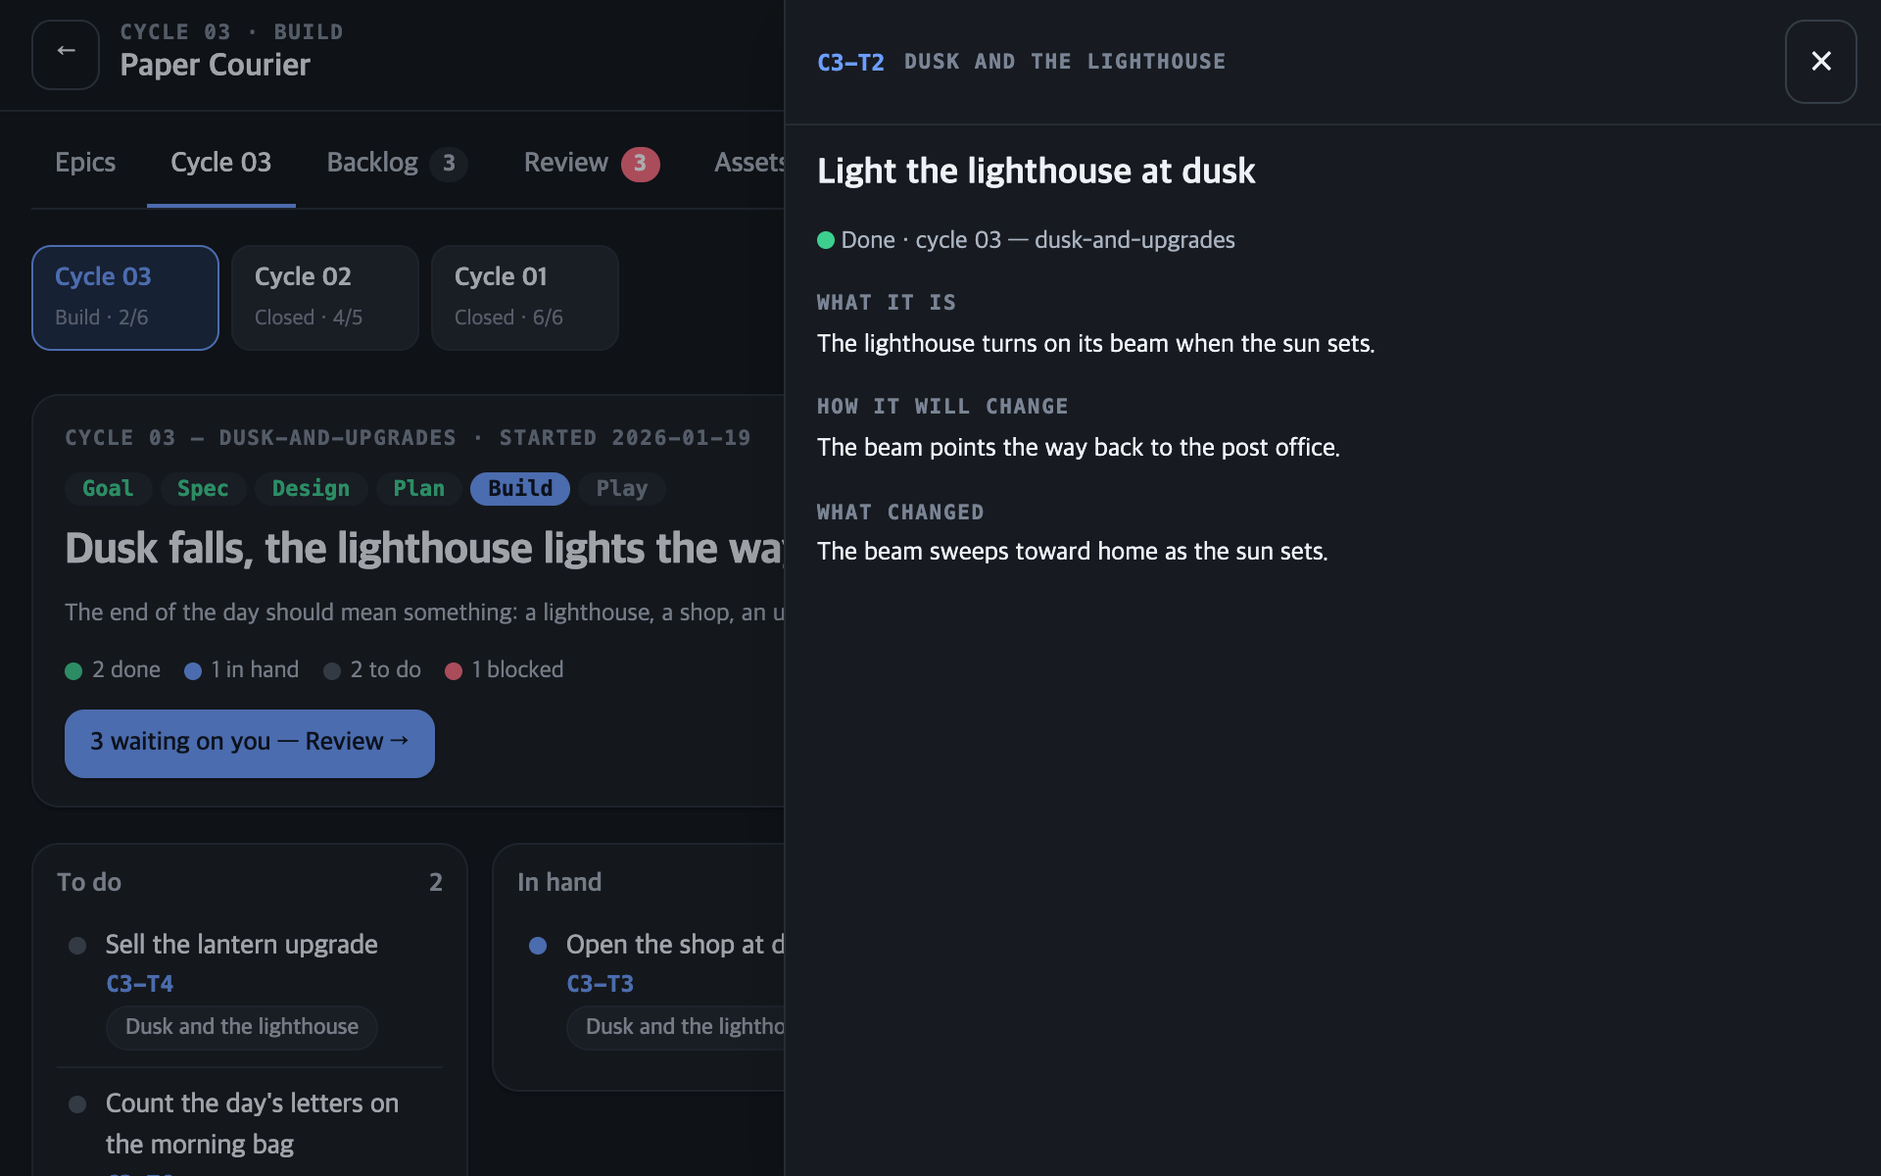
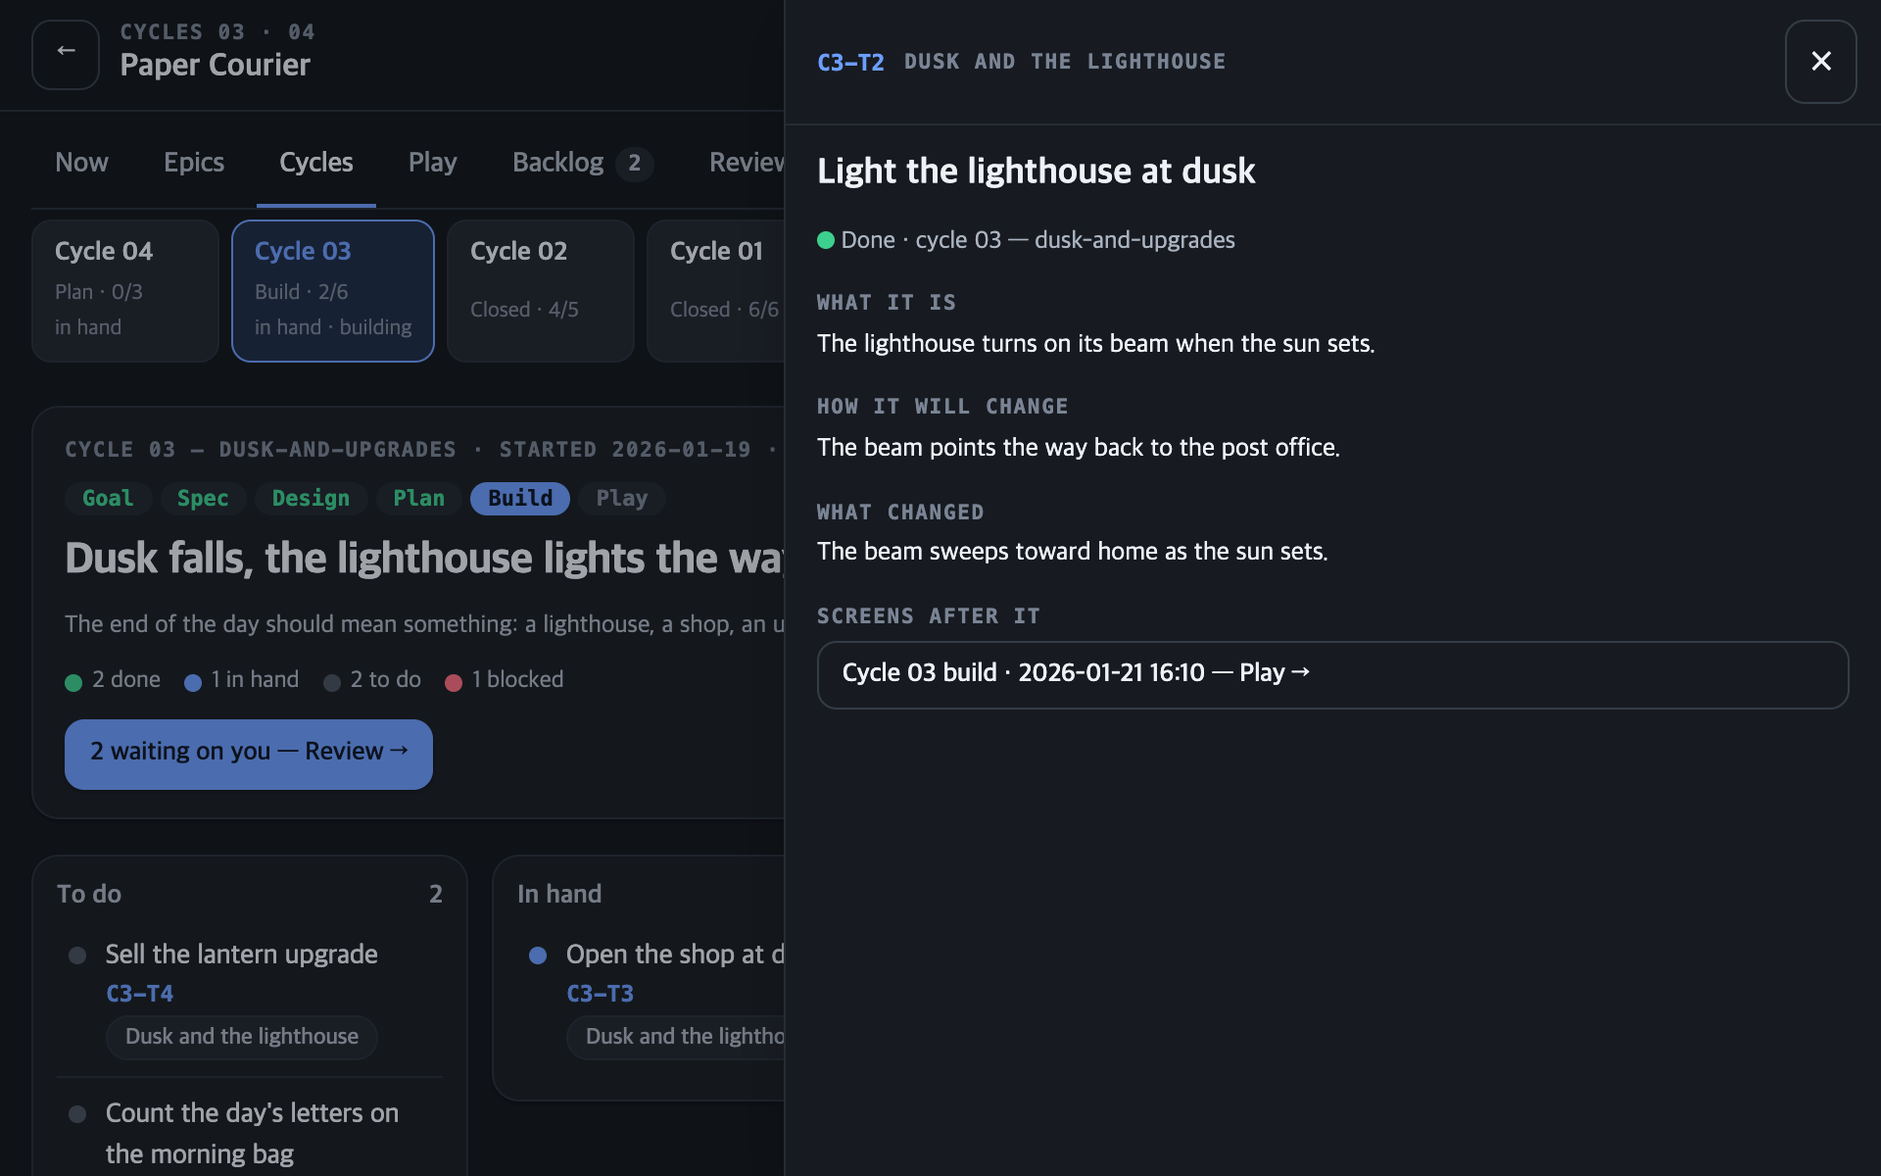
Landing: the CEO as the first reason, with its picture; Now and Play scenes in place of Screens; "run it for me" in the quick start

diff --git a/app/content.ts b/app/content.ts
@@ -21,7 +21,7 @@ type Scene = { img: string; title: string; text: string; alt: string };
 const en = {
   meta: {
     title: "claude-gamedev-kit — see your game all the way to done",
-    description: "A Claude Code plugin for making games. Agents build it cycle by cycle; a dashboard shows where every game stands and what's waiting on you. For Godot, Unity and web games.",
+    description: "A Claude Code plugin for making games. Agents build it cycle by cycle, several at once in the background; a dashboard shows where every game stands and what's waiting on you. For Godot, Unity and web games.",
   },
   nav: { why: "Why", start: "Quick start" },
   hero: {
@@ -34,9 +34,12 @@ const en = {
   },
   why: {
     eyebrow: "Why gamedev-kit",
-    title: "Three things that get a game finished",
+    title: "Four things that get a game finished",
   },
   reasons: [
+    { id: "ceo", problem: "You end up running every step yourself",
+      title: "Several cycles at once — you only decide and play",
+      text: "One window is the CEO: it proposes the next goals and starts a worker for each cycle that can move. A worker carries its cycle on in the background and stops only where you're needed — a decision, or a build ready to play. The CEO decides nothing; every question stays yours. Each cycle builds in a folder of its own, so several build at once." },
     { id: "dashboard", problem: "You lose sight of where it stands",
       title: "See it all, decide on the spot",
       text: "Every game's progress lands on one dashboard. Each part of the game is an epic with its tasks laid out by cycle, and every question from the agents arrives as a card with pictures to compare. Pick an answer and Claude carries on." },
@@ -53,18 +56,21 @@ const en = {
       { img: "/board-games.png", title: "All your games, one screen",
         text: "Pending decisions and progress for every game at once.",
         alt: "The dashboard home: three games, what waits on you in each, and how far each has come" },
+      { img: "/board-now.png", title: "What's in motion now",
+        text: "The workers running, the cycle each one is on, whose turn it is to build, and what waits on you.",
+        alt: "The Now tab: two workers running, cycle 3 holding the build turn, and each cycle in hand with its worker and the task being built" },
       { img: "/board-epics.png", title: "The game as epics",
         text: "Each part the player meets is an epic. Open one and its tasks line up by cycle.",
         alt: "The Epics tab: epic cards with their task counts, one opened below with its cycles in a row and that cycle's tasks" },
-      { img: "/board-screens.png", title: "See each epic in play",
-        text: "The screens every cycle took of it, newest first — what that part of the game looks like now, and before.",
-        alt: "An epic's Screens tab: two screens from play, each with the cycle that took it" },
       { img: "/board-cycle.png", title: "Each cycle as a board",
         text: "The cycle's goal and stage on top, its tasks in to do, in hand, blocked and done.",
         alt: "The Cycle tab: the cycle's goal and its six stages, then its tasks in four columns" },
       { img: "/board-task.png", title: "Open a task",
         text: "What it is, how the game will change, and what changed — in a sentence each.",
         alt: "A task's panel: what it is, how it will change, and what changed" },
+      { img: "/board-play.png", title: "The game's screens, build by build",
+        text: "Every build shoots the same route through the game — see each screen beside the build before it.",
+        alt: "The Play tab: each stop of the play route beside the run before it" },
       { img: "/review.png", title: "Answer the agents' questions",
         text: "Each question from the agents comes with pictures to compare and shows the direction they recommend.",
         alt: "The review tab: a decision with three wing drafts to compare above its options, and a decision with a recommended answer" },
@@ -72,6 +78,19 @@ const en = {
         text: "All the art and sound together, by epic, so you can tell whether they match.",
         alt: "The assets tab: every picture and sound grouped by epic, each with its state" },
     ] as Scene[],
+  },
+  ceo: {
+    label: "The CEO starts a worker for each of three cycles; one stops on a decision for you, one is building in its own folder, one is ready to play",
+    ceo: "CEO", ceoSub: "decides nothing",
+    you: "You", youSub: "decide · play",
+    workers: "Workers — Claude Code running in the background",
+    stages: ["Goal", "Spec", "Design", "Plan", "Build", "Play"],
+    lanes: [
+      { cycle: "C1", at: 1, stop: "decision for you", kind: "you" },
+      { cycle: "C2", at: 4, stop: "building, own folder", kind: "build" },
+      { cycle: "C3", at: 5, stop: "ready to play", kind: "play" },
+    ],
+    foot: "Only the merge into the game takes turns.",
   },
   sync: {
     label: "A design-doc sync table beside the code: one row matching, one mismatched, one not built yet",
@@ -111,8 +130,9 @@ const en = {
     s3sub: "No commands to memorize.",
     you: "you say",
     say: [
-      ["I want to make a cozy farming game", "Asks where it'll be played, picks the engine, sets up the project, then writes the design doc with you"],
+      ["I want to make a cozy farming game", "Asks where it'll be played, picks the engine, sets up the project, writes the design doc with you, then hands the first goal to the CEO"],
       ["Let's add a shop this time", "Runs one cycle from spec to build and sends your decisions to the dashboard"],
+      ["Run it for me", "The CEO runs the cycles in the background, several at once, and stops where you're needed"],
       ["I played it — the prices are hard to read", "Finds the cause and fixes it"],
     ] as [string, string][],
   },
@@ -131,7 +151,7 @@ export type Copy = typeof en;
 const ko: Copy = {
   meta: {
     title: "claude-gamedev-kit — 눈으로 보며 게임을 끝까지",
-    description: "게임을 만드는 Claude Code 플러그인. 에이전트가 사이클 단위로 만들고, 대시보드가 모든 게임의 진행 상황과 내가 정할 것을 보여 줍니다. Godot · Unity · 웹 게임.",
+    description: "게임을 만드는 Claude Code 플러그인. 에이전트가 사이클 단위로, 여러 사이클을 동시에 뒤에서 만들고, 대시보드가 모든 게임의 진행 상황과 내가 정할 것을 보여 줍니다. Godot · Unity · 웹 게임.",
   },
   nav: { why: "쓰는 이유", start: "빠른 시작" },
   hero: {
@@ -144,9 +164,12 @@ const ko: Copy = {
   },
   why: {
     eyebrow: "쓰는 이유",
-    title: "게임을 끝까지 만들게 하는 세 가지",
+    title: "게임을 끝까지 만들게 하는 네 가지",
   },
   reasons: [
+    { id: "ceo", problem: "모든 단계를 직접 돌리게 된다",
+      title: "여러 사이클을 동시에 — 나는 정하고 플레이만",
+      text: "창 하나가 CEO가 되어 다음 목표를 제안하고, 진행할 수 있는 사이클마다 워커를 띄웁니다. 워커는 뒤에서 사이클을 이어 가다가 내가 필요한 곳 — 결정이나 플레이할 빌드 — 에서만 멈춥니다. CEO는 아무것도 정하지 않고, 모든 질문은 내 몫으로 남습니다. 사이클마다 자기 폴더에서 빌드하니 여러 빌드가 동시에 돌아갑니다." },
     { id: "dashboard", problem: "어디까지 했는지 흐려진다",
       title: "한눈에 보고, 그 자리에서 결정합니다",
       text: "모든 게임의 진행 상황이 대시보드 한 화면에 모입니다. 게임의 각 부분이 에픽이 되어 태스크가 사이클별로 보이고, 에이전트의 질문은 비교할 그림과 함께 카드로 도착합니다. 고르기만 하면 Claude가 이어서 작업합니다." },
@@ -163,18 +186,21 @@ const ko: Copy = {
       { img: "/board-games.png", title: "모든 게임을 한 화면에",
         text: "게임마다 남은 결정과 진행률을 한 번에 봅니다.",
         alt: "대시보드 첫 화면: 게임 세 개, 게임마다 나를 기다리는 것과 진행 정도" },
+      { img: "/board-now.png", title: "지금 움직이는 것",
+        text: "돌고 있는 워커, 각자 맡은 사이클, 빌드 차례, 나를 기다리는 것을 봅니다.",
+        alt: "Now 탭: 돌고 있는 워커 둘, 빌드 차례를 가진 사이클 3, 진행 중인 사이클마다 워커와 만들고 있는 태스크" },
       { img: "/board-epics.png", title: "게임을 에픽으로",
         text: "플레이어가 만나는 부분 하나가 에픽 하나입니다. 열면 그 에픽의 태스크가 사이클별로 놓입니다.",
         alt: "에픽 탭: 태스크 수가 붙은 에픽 카드, 그 아래 연 에픽의 사이클 줄과 그 사이클의 태스크" },
-      { img: "/board-screens.png", title: "에픽을 플레이 화면으로",
-        text: "사이클마다 찍은 그 에픽의 화면을 최신순으로 — 지금 모습과 지난 모습을 봅니다.",
-        alt: "에픽의 Screens 탭: 플레이 화면 두 장과 각각을 찍은 사이클" },
       { img: "/board-cycle.png", title: "사이클은 보드로",
         text: "위에는 사이클의 목표와 단계, 아래에는 할 일·진행 중·막힘·끝으로 나뉜 태스크.",
         alt: "사이클 탭: 사이클의 목표와 여섯 단계, 그 아래 네 칸으로 나뉜 태스크" },
       { img: "/board-task.png", title: "태스크를 열면",
         text: "무엇인지, 게임이 어떻게 바뀔지, 무엇이 바뀌었는지를 한 문장씩 봅니다.",
         alt: "태스크 패널: 무엇인지, 어떻게 바뀔지, 무엇이 바뀌었는지" },
+      { img: "/board-play.png", title: "빌드마다 게임 화면을",
+        text: "빌드할 때마다 같은 경로로 게임 화면을 찍어, 지난 빌드와 나란히 봅니다.",
+        alt: "Play 탭: 플레이 경로의 화면마다 지난 실행과 나란히" },
       { img: "/review.png", title: "에이전트의 질문에 답하기",
         text: "에이전트의 질문에 비교할 그림을 붙이고, 추천하는 방향을 보여줍니다.",
         alt: "리뷰 탭: 날개 시안 세 장을 비교하며 고르는 결정, 추천 답이 붙은 결정" },
@@ -182,6 +208,19 @@ const ko: Copy = {
         text: "그림과 소리를 에픽별로 한데 놓고 톤이 맞는지 봅니다.",
         alt: "에셋 탭: 에픽별로 묶인 그림과 소리, 각각의 상태" },
     ],
+  },
+  ceo: {
+    label: "CEO가 사이클 셋에 워커를 하나씩 띄움; 하나는 내 결정을 기다리고, 하나는 자기 폴더에서 빌드 중, 하나는 플레이 준비 완료",
+    ceo: "CEO", ceoSub: "정하지 않음",
+    you: "나", youSub: "결정 · 플레이",
+    workers: "워커 — 뒤에서 도는 Claude Code",
+    stages: ["목표", "스펙", "디자인", "계획", "빌드", "플레이"],
+    lanes: [
+      { cycle: "C1", at: 1, stop: "내 결정 대기", kind: "you" },
+      { cycle: "C2", at: 4, stop: "자기 폴더에서 빌드", kind: "build" },
+      { cycle: "C3", at: 5, stop: "플레이 준비", kind: "play" },
+    ],
+    foot: "게임에 합칠 때만 차례를 기다립니다.",
   },
   sync: {
     label: "기획서 동기화 표와 코드: 한 줄은 일치, 한 줄은 불일치, 한 줄은 아직 구현 안 됨",
@@ -221,8 +260,9 @@ const ko: Copy = {
     s3sub: "명령어를 외울 필요 없습니다.",
     you: "이렇게 말하면",
     say: [
-      ["아늑한 농장 게임 만들고 싶어", "어디서 플레이할지 묻고, 엔진을 정하고, 프로젝트를 세팅한 뒤 기획서를 같이 씁니다"],
+      ["아늑한 농장 게임 만들고 싶어", "어디서 플레이할지 묻고, 엔진을 정하고, 프로젝트를 세팅하고, 기획서를 같이 쓴 뒤 첫 목표를 CEO에게 넘깁니다"],
       ["이번엔 상점 넣어 보자", "기획부터 구현까지 한 사이클을 돌고, 정할 것은 대시보드로 보냅니다"],
+      ["알아서 돌려줘", "CEO가 여러 사이클을 동시에 뒤에서 돌리고, 내가 필요한 곳에서 멈춥니다"],
       ["해 봤는데 가격이 잘 안 보여", "원인을 찾아서 고칩니다"],
     ],
   },

diff --git a/app/globals.css b/app/globals.css
@@ -57,7 +57,7 @@ code { font: 600 .88em var(--mono); color: var(--lime); }
 .hero .in { display: flex; flex-direction: column; gap: 24px; }
 .hero h1 { font-size: clamp(34px, 5.6vw, 66px); font-weight: 900; max-width: none; }
 .why { padding-top: 88px; display: flex; flex-direction: column; gap: 16px; }
-.index { list-style: none; margin: 16px 0 0; padding: 0; display: grid; gap: 14px; grid-template-columns: repeat(3, minmax(0, 1fr)); }
+.index { list-style: none; margin: 16px 0 0; padding: 0; display: grid; gap: 14px; grid-template-columns: repeat(4, minmax(0, 1fr)); }
 .index a { position: relative; height: 100%; display: flex; flex-direction: column; gap: 10px; padding: 22px 22px 48px; border-radius: 18px; border: 1px solid var(--line2); background: linear-gradient(180deg, var(--card), var(--bg2)); color: var(--tx); transition: border-color .2s, transform .2s; }
 .index a:hover { border-color: var(--mint); transform: translateY(-2px); text-decoration: none; }
 .index-n { font: 700 12px var(--mono); letter-spacing: .1em; color: var(--mint); }
@@ -121,6 +121,25 @@ code { font: 600 .88em var(--mono); color: var(--lime); }
 .links i.mismatch { color: var(--red); }
 .links i.missing { background: repeating-linear-gradient(90deg, var(--tx3) 0 4px, transparent 4px 8px) center / 100% 1.5px no-repeat; opacity: .6; }
 
+.ceo-grid { display: grid; grid-template-columns: auto minmax(0, 1fr) auto; gap: 14px; align-items: center; }
+.ceo-node { display: flex; flex-direction: column; align-items: center; gap: 6px; text-align: center; }
+.ceo-node b { padding: 10px 18px; border-radius: 99px; border: 2px solid var(--mint); background: var(--card); font-size: 17px; }
+.ceo-node.you b { border-color: transparent; background: linear-gradient(180deg, #5dffc0, #16b877); color: #07110e; }
+.ceo-node small { color: var(--mint); font-size: 12px; font-weight: 600; }
+.ceo-lanes { display: flex; flex-direction: column; gap: 10px; min-width: 0; }
+.ceo-lane { display: grid; grid-template-columns: auto minmax(0, 1fr); grid-template-areas: "c stages" ". stop"; gap: 6px 10px; align-items: center; }
+.ceo-c { grid-area: c; font: 700 13px var(--mono); padding: 4px 9px; border-radius: 99px; border: 1px solid var(--sky); color: var(--tx); }
+.ceo-stages { grid-area: stages; list-style: none; margin: 0; padding: 0; display: grid; grid-template-columns: repeat(6, minmax(0, 1fr)); gap: 4px; }
+.ceo-stages li { padding: 5px 0; border-radius: 7px; text-align: center; font-size: 11px; font-weight: 600; color: var(--tx3); border: 1px solid var(--line2); white-space: nowrap; overflow: hidden; }
+.ceo-stages li.done { color: #9fe9cc; border-color: rgba(61,255,176,.4); background: rgba(61,255,176,.12); }
+.ceo-stages li.now { color: #07110e; font-weight: 800; border-color: transparent; }
+.ceo-stages li.now.you { background: var(--pink); box-shadow: 0 0 14px rgba(255,138,209,.4); }
+.ceo-stages li.now.build { background: var(--mint); box-shadow: 0 0 14px rgba(61,255,176,.4); }
+.ceo-stages li.now.play { background: var(--sun); box-shadow: 0 0 14px rgba(255,210,74,.4); }
+.ceo-stop { grid-area: stop; justify-self: end; font: 700 11px var(--mono); padding: 3px 9px; border-radius: 99px; border: 1px solid; }
+.ceo-stop.you { color: var(--pink); border-color: rgba(255,138,209,.5); }
+.ceo-stop.build { color: var(--mint); border-color: rgba(61,255,176,.5); }
+.ceo-stop.play { color: var(--sun); border-color: rgba(255,210,74,.5); }
 .rule-games { display: grid; grid-template-columns: repeat(3, minmax(0, 1fr)); gap: 14px; align-items: end; position: relative; }
 .rule-col { display: flex; flex-direction: column; gap: 12px; align-items: stretch; }
 .stack { list-style: none; margin: 0; padding: 0; display: flex; flex-direction: column-reverse; gap: 6px; }
@@ -167,6 +186,7 @@ code { font: 600 .88em var(--mono); color: var(--lime); }
 
 @media (max-width: 960px) {
   .index, .split { grid-template-columns: minmax(0, 1fr); }
+  .index { grid-template-columns: repeat(2, minmax(0, 1fr)); }
   .split { gap: 32px; }
   .flip .reason-head { order: 0; }
   .nav nav { display: none; }
@@ -175,7 +195,11 @@ code { font: 600 .88em var(--mono); color: var(--lime); }
 @media (max-width: 560px) {
   .hero { padding-top: 64px; }
   .reason { padding-top: 88px; gap: 28px; }
+  .index { grid-template-columns: minmax(0, 1fr); }
   .index a { padding-bottom: 22px; }
+  .ceo-grid { grid-template-columns: minmax(0, 1fr); }
+  .ceo-node { flex-direction: row; justify-content: center; }
+  .ceo-stages li { font-size: 9.5px; }
   .index-go { display: none; }
   .vis { padding: 16px; }
   .sync-grid { grid-template-columns: minmax(0, 1fr); gap: 10px; }

diff --git a/app/landing.tsx b/app/landing.tsx
@@ -2,11 +2,11 @@ import { BOARD_REPO, COPY, INSTALL, REPO, type Lang } from "./content";
 import CopyBlock from "./copy";
 import LangSwitch from "./lang-switch";
 import Scenes from "./scenes";
-import { RulesVisual, SyncVisual } from "./visuals";
+import { CeoVisual, RulesVisual, SyncVisual } from "./visuals";
 
 export default function Landing({ lang }: { lang: Lang }) {
   const t = COPY[lang];
-  const [r1, r2, r3] = t.reasons;
+  const [r0, r1, r2, r3] = t.reasons;
   const head = (i: number, r: (typeof t.reasons)[number]) => (
     <header className="reason-head">
       <span className="reason-n">{String(i + 1).padStart(2, "0")} · {r.problem}</span>
@@ -60,18 +60,23 @@ export default function Landing({ lang }: { lang: Lang }) {
           </ol>
         </section>
 
+        <section id={r0.id} className="in reason split">
+          {head(0, r0)}
+          <CeoVisual t={t.ceo} />
+        </section>
+
         <section id={r1.id} className="reason">
-          <div className="in">{head(0, r1)}</div>
+          <div className="in">{head(1, r1)}</div>
           <Scenes scenes={t.scenes.list} label={t.scenes.label} />
         </section>
 
-        <section id={r2.id} className="in reason split">
-          {head(1, r2)}
+        <section id={r2.id} className="in reason split flip">
+          {head(2, r2)}
           <SyncVisual t={t.sync} />
         </section>
 
-        <section id={r3.id} className="in reason split flip">
-          {head(2, r3)}
+        <section id={r3.id} className="in reason split">
+          {head(3, r3)}
           <RulesVisual t={t.rules} />
         </section>
 

diff --git a/app/visuals.tsx b/app/visuals.tsx
@@ -4,6 +4,31 @@ function Inline({ text }: { text: string }) {
   return <>{text.split(/(`[^`]+`)/).map((p, i) => (p.startsWith("`") ? <code key={i}>{p.slice(1, -1)}</code> : p))}</>;
 }
 
+// The CEO and its workers: each cycle in hand carries on in the background and stops where the user is needed — drawn in HTML, like the sync table.
+export function CeoVisual({ t }: { t: Copy["ceo"] }) {
+  return (
+    <figure className="vis ceo" aria-label={t.label}>
+      <div className="ceo-grid">
+        <div className="ceo-node"><b>{t.ceo}</b><small>{t.ceoSub}</small></div>
+        <div className="ceo-lanes">
+          <span className="panel-lab">{t.workers}</span>
+          {t.lanes.map((l) => (
+            <div key={l.cycle} className="ceo-lane">
+              <b className="ceo-c">{l.cycle}</b>
+              <ol className="ceo-stages">
+                {t.stages.map((s, i) => <li key={s} className={i < l.at ? "done" : i === l.at ? `now ${l.kind}` : ""}>{s}</li>)}
+              </ol>
+              <span className={`ceo-stop ${l.kind}`}>{l.stop}</span>
+            </div>
+          ))}
+        </div>
+        <div className="ceo-node you"><b>{t.you}</b><small>{t.youSub}</small></div>
+      </div>
+      <figcaption>{t.foot}</figcaption>
+    </figure>
+  );
+}
+
 // The GDD's sync table beside the code it names — drawn in HTML so it reads in either language at any width.
 const ROWS = [
   { id: "BAL.BAG.CAPACITY", gdd: "3~5", state: "synced", code: "BAG_CAPACITY = 4" },
